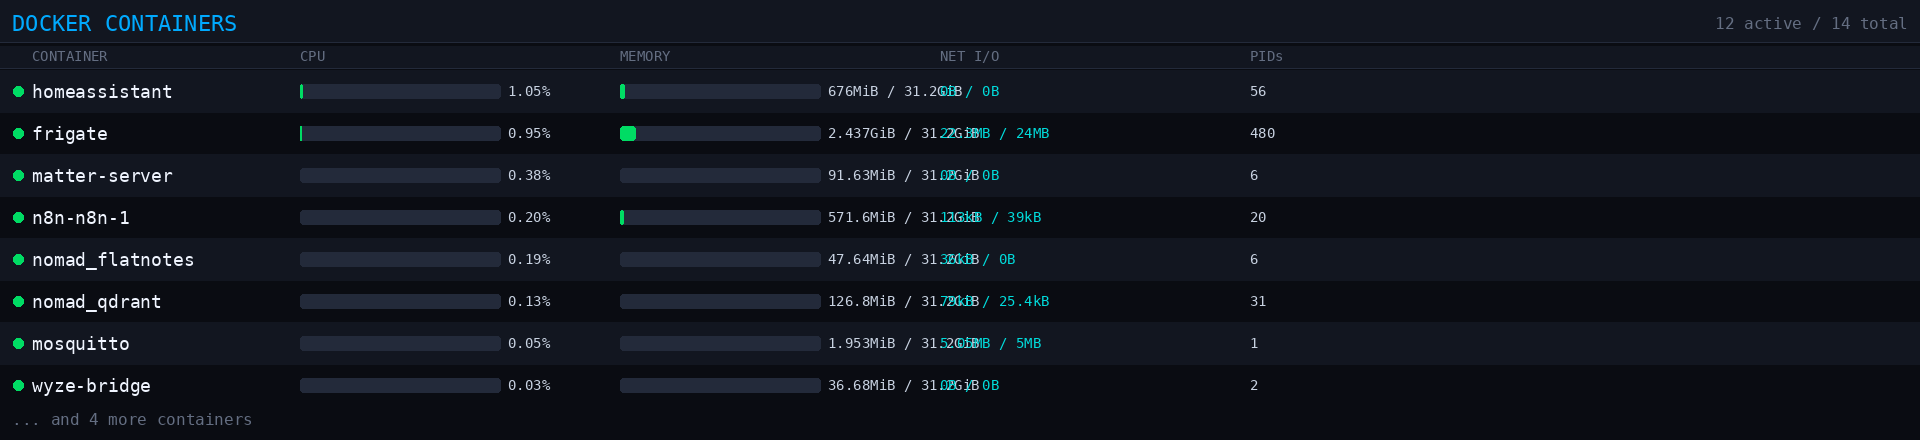
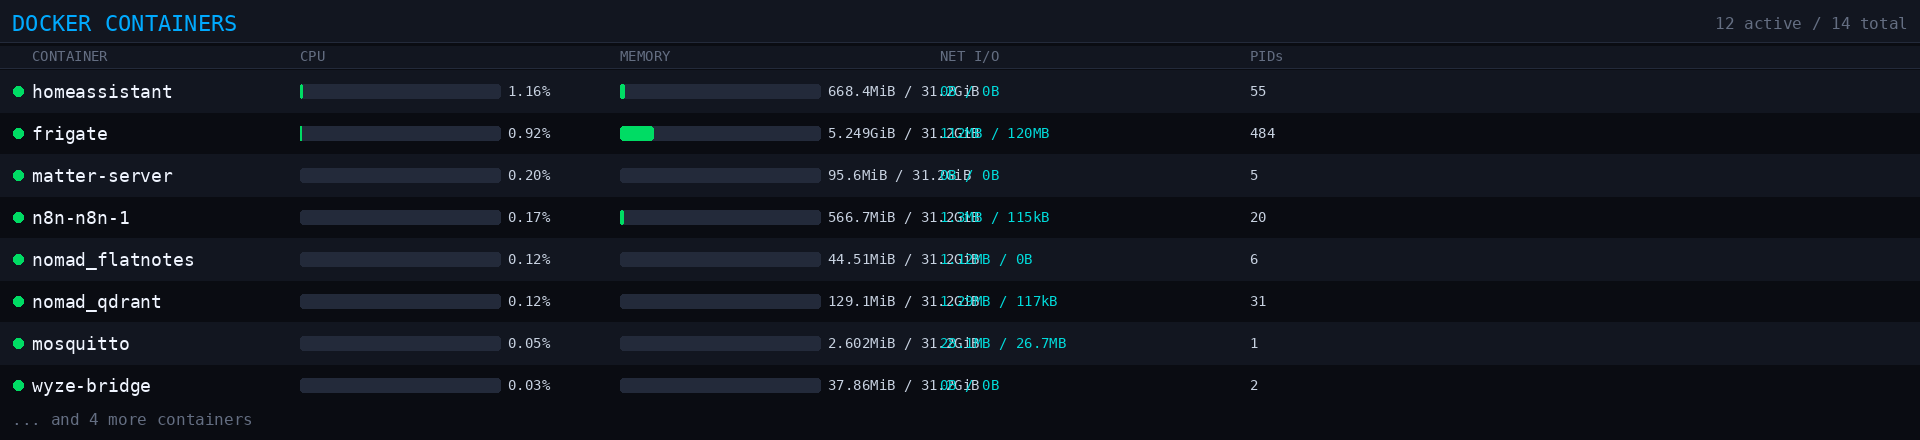
docs: refresh all screenshots with current system data, add matrix and pomodoro

diff --git a/README.md b/README.md
@@ -10,20 +10,26 @@ These cheap USB-C bar monitors ship with Windows-only drivers and have **zero Li
 
 ## Screenshots
 
-**System Monitor** — CPU cores, temps, GPU, memory, network with sparkline graphs:
+**System Monitor** — CPU cores, temps, GPU, memory, disk, swap, network:
 ![sysmon](screenshots/sysmon.png)
 
-**Crypto Ticker** — live prices from CoinGecko with 24h change and sparklines:
+**Crypto Ticker** — live prices from CoinGecko with 24h change:
 ![ticker](screenshots/ticker.png)
-
-**Docker Monitor** — container status, CPU/memory bars, network I/O:
-![docker](screenshots/docker_mon.png)
 
 **Clock + Weather** — animated weather scenes, 12hr time, system stats:
 ![clock](screenshots/clock.png)
 
+**Docker Monitor** — container status, CPU/memory bars, network I/O:
+![docker](screenshots/docker_mon.png)
+
 **Network Monitor** — active connections, state breakdown, process names:
 ![netmon](screenshots/netmon.png)
+
+**Matrix Rain** — digital rain effect with live syslog data:
+![matrix](screenshots/matrix.png)
+
+**Pomodoro Timer** — 25/5 focus timer with circular progress:
+![pomodoro](screenshots/pomodoro.png)
 
 ## Supported Hardware
 
